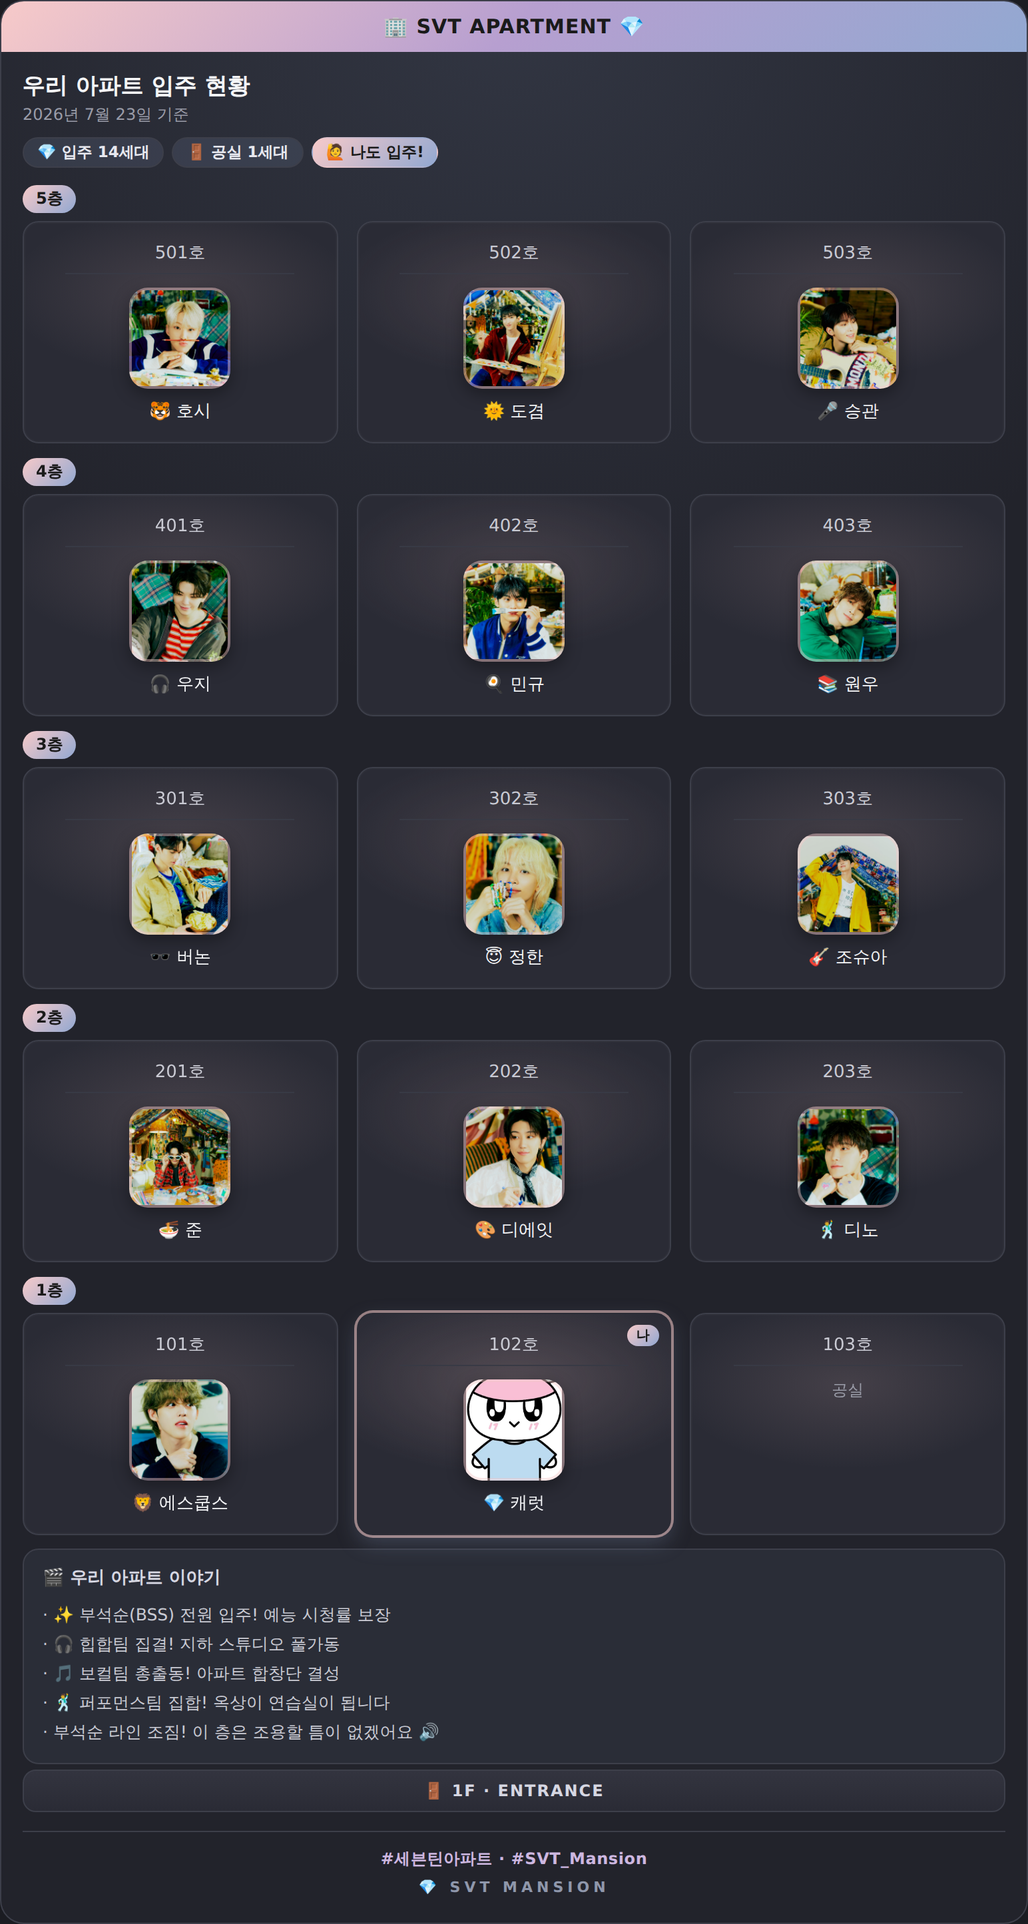
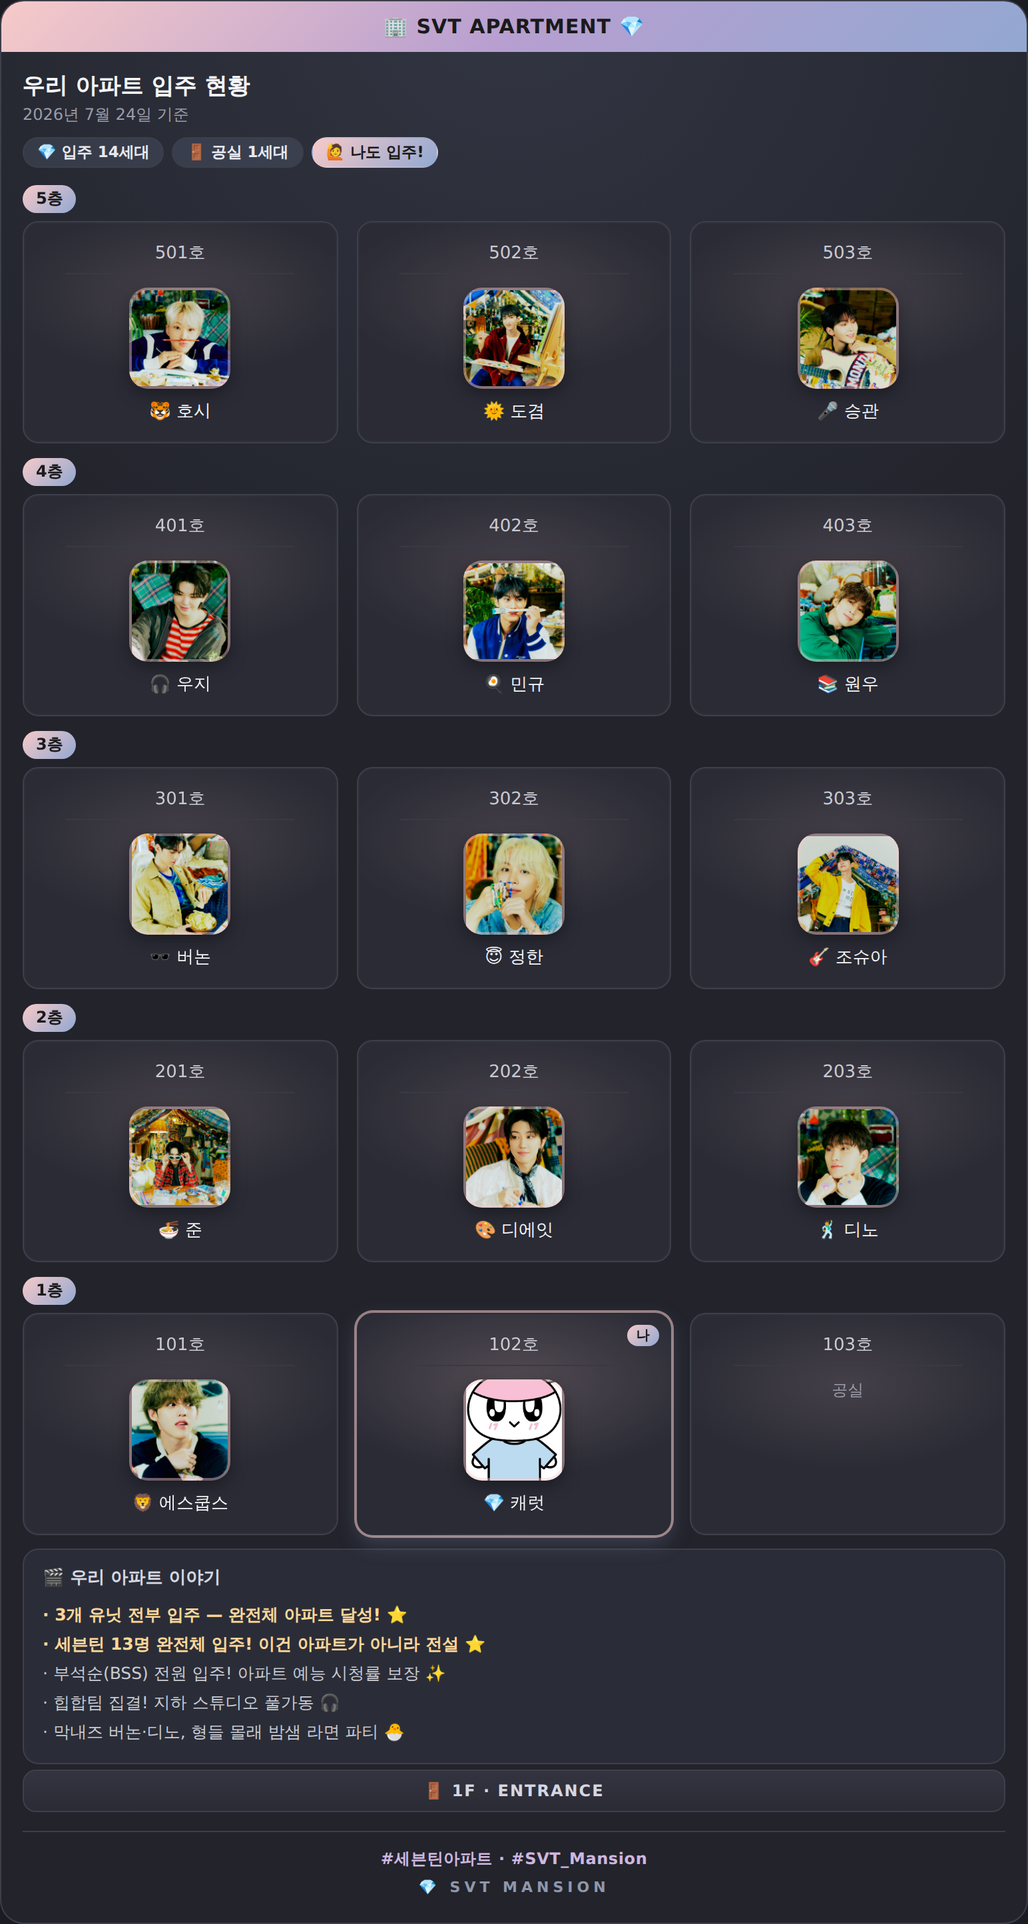
Upgrade event engine: categories, tiers, seeded determinism
6인 페르소나 회의(트위터 고인물·시나리오 작가·서비스 기획·디자이너·서버개발·
아이돌 엔터 기획) 결론을 반영해 정적 규칙표를 엔진으로 확장:
- 카테고리(레전드/유닛/고세/케미/위치/개인) + 티어 우선순위 + 카테고리별 상한(최대 5)
- 레전드 이벤트(13명 완전체·3개 유닛 완성) 골드 강조
- mulberry32 시드로 결정성 확보(같은 배치=같은 이야기), generateEvents 순수 함수
- 콘텐츠는 웹/네이버 검색으로 수집한 공개 사실 기반:
  유닛·부석순·믹스유닛 듀엣(동갑내기/어젯밤/Pretty Woman/Blue)·고잉세븐틴 포맷
- docs/EVENT_ENGINE.md(설계·회의·자료 출처), README·CHANGELOG·미리보기 갱신
- 엔진 로직(결정성/레전드/상한) + 회귀 검증

Claude-Session: https://claude.ai/code/session_01EWYYFStorAgKbjfY3kz4mX

Changed region(s): [[0.0311, 0.8097, 0.4663, 0.9031]]

diff --git a/index.html b/index.html
@@ -476,6 +476,12 @@
       line-height: 1.75;
     }
 
+    /* 레전드 이벤트 강조 (팬덤 '플렉스' 라인) */
+    .preview-event-item.legend {
+      color: #ffd79a;
+      font-weight: 700;
+    }
+
     /* 1층 출입구 */
     .preview-entrance {
       margin: 4px 16px 0;
@@ -990,37 +996,99 @@
       "캐럿":     { emoji: "💎", tag: "우리 이웃 캐럿" }
     };
 
-    // 이웃 케미 (두 멤버가 인접 시 발동, 순서 무관)
+    // ═══════════════════════════════════════════════════════════
+    // 이벤트 엔진 (6인 페르소나 회의 반영 / 자료: 유닛·부석순·믹스유닛 듀엣·고잉세븐틴 포맷)
+    //   데이터 = 규칙 테이블, 로직 = generateEvents(순수·결정적). 카테고리별 상한 + 티어 우선순위.
+    //   콘텐츠는 공개된 팬덤 사실(유닛/서브유닛/듀엣곡/자체예능) 기반의 밝고 긍정적 문구만.
+    // ═══════════════════════════════════════════════════════════
+
+    // 유닛/조합 전원 배치 시 (위치 무관). legendary=대형 달성.
+    const UNIT_EVENTS = [
+      { m: ["에스쿱스", "정한", "조슈아", "준", "호시", "원우", "우지", "디에잇", "민규", "도겸", "승관", "버논", "디노"],
+        text: "세븐틴 13명 완전체 입주! 이건 아파트가 아니라 전설 ⭐", legendary: true },
+      { m: ["호시", "도겸", "승관"], text: "부석순(BSS) 전원 입주! 아파트 예능 시청률 보장 ✨" },
+      { m: ["에스쿱스", "원우", "민규", "버논"], text: "힙합팀 집결! 지하 스튜디오 풀가동 🎧" },
+      { m: ["정한", "조슈아", "우지", "도겸", "승관"], text: "보컬팀 총출동! 아파트가 라이브홀이 됩니다 🎵" },
+      { m: ["준", "호시", "디에잇", "디노"], text: "퍼포먼스팀 집합! 옥상이 곧 안무 연습실 🕺" },
+      { m: ["호시", "우지"], text: "동갑내기 호시·우지 입주 — '동갑내기' 듀엣 각 👯" },
+      { m: ["버논", "디노"], text: "막내즈 버논·디노, 형들 몰래 밤샘 라면 파티 🐣" }
+    ];
+
+    // 이웃 케미 (두 멤버가 인접 시). 실제 유닛·믹스유닛 듀엣곡 레퍼런스 포함.
     const PAIR_EVENTS = [
-      { m: ["호시", "도겸"],   text: "부석순 라인 조짐! 이 층은 조용할 틈이 없겠어요 🔊" },
+      { m: ["호시", "우지"],   text: "호시·우지 옆집, '동갑내기' 합주가 시작됩니다 🎹" },
+      { m: ["정한", "원우"],   text: "정한·원우, '어젯밤' 감성으로 밤샘 토크 🌙" },
+      { m: ["에스쿱스", "민규"], text: "에스쿱스·민규, 'Pretty Woman' 코드로 옆집 인사 🕶" },
+      { m: ["도겸", "승관"],   text: "도겸·승관 'Blue' 듀엣, 벽 너머 자장가 🎶" },
+      { m: ["호시", "도겸"],   text: "호시·도겸 옆집 = 부석순 라인, 조용할 틈이 없어요 🔊" },
       { m: ["호시", "승관"],   text: "호시·승관 옆집, 복도가 곧 무대가 됩니다 🎤" },
-      { m: ["도겸", "승관"],   text: "도겸·승관 듀엣, 벽 너머로 라이브가 들려와요 🎶" },
       { m: ["민규", "우지"],   text: "밤샘하는 우지에게 민규가 야식 배달 🍳🎧" },
-      { m: ["원우", "버논"],   text: "원우·버논, 밤새 게임과 음악 소리가 새어나와요 🎮" },
+      { m: ["원우", "버논"],   text: "원우·버논, 밤새 게임과 힙합 비트가 새어나와요 🎮" },
       { m: ["정한", "조슈아"], text: "정한·조슈아, 옆집끼리 알콩달콩 장난 😇🎸" },
       { m: ["준", "디에잇"],   text: "준·디에잇, 예술과 요리의 살롱이 열립니다 🍜🎨" },
-      { m: ["에스쿱스", "디노"], text: "리더와 막내가 이웃! 든든한 사제 라인 🦁🕺" },
-      { m: ["민규", "도겸"],   text: "민규 집밥 + 도겸 미소 = 이 층 분위기 담당 🌞" }
+      { m: ["에스쿱스", "디노"], text: "리더와 막내가 이웃! 든든한 사제 라인 🦁🕺" }
     ];
 
-    // 이웃이 하나라도 있으면 발동 (개인 특성)
+    // 이웃이 하나라도 있으면 발동 (개인 캐릭터). 멤버당 여러 변형 → 시드로 하나 선택.
     const SOLO_EVENTS = {
-      "우지": "옆집에서 밤새 비트가… 우지 작업실 가동 중 🎧",
-      "민규": "이웃집에 민규표 집밥 냄새가 솔솔 🍳",
-      "승관": "승관 사는 라인은 매일이 예능 현장 🎤",
-      "호시": "새벽마다 안무 연습 소리, 호시가 옆집이군요 🐯",
-      "정한": "정한의 장난 초인종에 오늘도 옆집이 당했다 😇"
+      "우지":   ["옆집에서 밤새 비트가… 우지 작업실 가동 중 🎧", "천재작곡가 우지, 오늘도 자컴 마감 중 🎼"],
+      "민규":   ["이웃집에 민규표 집밥 냄새가 솔솔 🍳", "민규가 선반 달다가 옆집 벽까지 뚫을 뻔 🔨"],
+      "승관":   ["승관 사는 라인은 매일이 예능 현장 🎤", "반상회 사회는 역시 승관, 리액션 폭발 🎙"],
+      "호시":   ["새벽마다 안무 연습 소리, 호시가 옆집이군요 🐯", "텐션 담당 호시, 복도에서도 호랑해! 🐯"],
+      "정한":   ["정한의 장난 초인종에 오늘도 옆집이 당했다 😇", "게임에선 늘 살아남는 정한, 관리비도 잘 빠져나감 😏"],
+      "원우":   ["복도에서 마주쳐도 조용히 눈인사, 원우 스타일 📚", "게임하며 엘리베이터 기다리는 원우 발견 🎮"],
+      "조슈아": ["젠틀한 조슈아, 반상회 진행은 맡겨주세요 🎩"],
+      "도겸":   ["도겸 목소리에 옆집은 알람이 필요 없대요 🌞"],
+      "디에잇": ["디에잇 집 앞엔 늘 감성적인 화분이 놓여 있어요 🎨"],
+      "버논":   ["버논네 창문에서 흘러나오는 힙합 비트 🎧"],
+      "준":     ["준이 만든 마라탕 냄새가 복도 끝까지 🍲"],
+      "디노":   ["막내 디노, 반상회에서 동대표 자원 🔥"],
+      "에스쿱스": ["동대표는 역시 에스쿱스, 든든한 리더 🦁"]
     };
 
-    // 그룹 전원 배치 시 발동 (위치 무관)
-    const GROUP_EVENTS = [
-      { m: ["호시", "도겸", "승관"], text: "✨ 부석순(BSS) 전원 입주! 예능 시청률 보장" },
-      { m: ["에스쿱스", "원우", "민규", "버논"], text: "🎧 힙합팀 집결! 지하 스튜디오 풀가동" },
-      { m: ["정한", "조슈아", "우지", "도겸", "승관"], text: "🎵 보컬팀 총출동! 아파트 합창단 결성" },
-      { m: ["준", "호시", "디에잇", "디노"], text: "🕺 퍼포먼스팀 집합! 옥상이 연습실이 됩니다" }
+    // 위치(층) 기반
+    const POSITION_EVENTS = [
+      { when: (map) => [1, 2, 3].some(u => map["5-" + u]), text: "펜트하우스 라인 — 이 아파트 뷰 담당 🏙" },
+      { when: (map) => [1, 2, 3].some(u => map["1-" + u]), text: "1층은 택배·손님이 가장 먼저 들르는 명당 🛎" }
     ];
 
-    // 배치 결과 → 위치 기반 이벤트 목록 (우선순위: 그룹 > 이웃 케미 > 개인, 최대 5개)
+    // 고잉세븐틴 자체예능 포맷 이벤트 (일정 인원 이상 배치 시 시드로 하나)
+    const GOSE_EVENTS = [
+      "밤이 되자 아파트 방탈출 시작 — 살아서 1층까지! 🔑",
+      "관리비 몰아주기 '돈치기' 대회가 로비에서… 💰",
+      "어몽어스 현실판: 이 중 임포스터는 누구? 🕵",
+      "이사 기념 TTT — 오늘 밤 옥상에서 다 같이 썰 푼다 🌟",
+      "복도 노래방 오픈! 마이크는 도겸이 독점 🎤"
+    ];
+
+    // 배치 → 시드(결정적). 같은 배치 = 같은 이야기, 다른 배치 = 다른 이야기.
+    function seedFromResults(results) {
+      let h = 2166136261;
+      results.forEach(r => {
+        const s = r.floor + "-" + r.unit + ":" + (r.resident || "");
+        for (let i = 0; i < s.length; i++) { h ^= s.charCodeAt(i); h = Math.imul(h, 16777619); }
+      });
+      return h >>> 0;
+    }
+    function mulberry32(a) {
+      return function () {
+        a |= 0; a = (a + 0x6D2B79F5) | 0;
+        let t = Math.imul(a ^ (a >>> 15), 1 | a);
+        t = (t + Math.imul(t ^ (t >>> 7), 61 | t)) ^ t;
+        return ((t ^ (t >>> 14)) >>> 0) / 4294967296;
+      };
+    }
+    function seededShuffle(arr, rng) {
+      const a = arr.slice();
+      for (let i = a.length - 1; i > 0; i--) {
+        const j = Math.floor(rng() * (i + 1));
+        [a[i], a[j]] = [a[j], a[i]];
+      }
+      return a;
+    }
+
+    // 배치 결과 → 이벤트 목록. 반환: [{ text, legendary }] 최대 5개.
+    //   티어 우선순위: 레전드 > 유닛 > 고세 > 케미 > 위치 > 개인. 카테고리별 상한으로 다양성 확보.
     function generateEvents(results) {
       const placed = new Set(
         results.filter(r => r.resident && r.resident !== "공실").map(r => r.resident)
@@ -1030,7 +1098,7 @@
         if (r.resident && r.resident !== "공실") map[r.floor + "-" + r.unit] = r.resident;
       });
 
-      // 인접 쌍 수집: 같은 층 좌우 + 같은 라인 위아래
+      // 인접 쌍 + 이웃 보유 여부
       const adjPairs = new Set();
       const hasNeighbor = new Set();
       const connect = (a, b) => {
@@ -1047,15 +1115,54 @@
         }
       }
 
-      const events = [];
-      const seen = new Set();
-      const push = (t) => { if (t && !seen.has(t)) { seen.add(t); events.push(t); } };
+      const rng = mulberry32(seedFromResults(results));
+      const pool = []; // { text, tier, cat, legendary }
+      const seenText = new Set();
+      const add = (text, tier, cat, legendary) => {
+        if (!text || seenText.has(text)) return;
+        seenText.add(text);
+        pool.push({ text, tier, cat, legendary: !!legendary });
+      };
 
-      GROUP_EVENTS.forEach(g => { if (g.m.every(x => placed.has(x))) push(g.text); });
-      PAIR_EVENTS.forEach(p => { if (adjPairs.has([...p.m].sort().join("|"))) push(p.text); });
-      Object.keys(SOLO_EVENTS).forEach(m => { if (hasNeighbor.has(m)) push(SOLO_EVENTS[m]); });
+      // 유닛/조합 (전원 배치)
+      UNIT_EVENTS.forEach(u => {
+        if (u.m.every(x => placed.has(x))) add(u.text, u.legendary ? 0 : 1, "unit", u.legendary);
+      });
+      // 3개 유닛 모두 완성 → 레전드
+      const HIPHOP = ["에스쿱스", "원우", "민규", "버논"];
+      const VOCAL = ["정한", "조슈아", "우지", "도겸", "승관"];
+      const PERF = ["준", "호시", "디에잇", "디노"];
+      if (HIPHOP.every(x => placed.has(x)) && VOCAL.every(x => placed.has(x)) && PERF.every(x => placed.has(x))) {
+        add("3개 유닛 전부 입주 — 완전체 아파트 달성! ⭐", 0, "unit", true);
+      }
+      // 고세 예능 (6명 이상)
+      if (placed.size >= 6) {
+        add(seededShuffle(GOSE_EVENTS, rng)[0], 2, "gose", false);
+      }
+      // 이웃 케미
+      PAIR_EVENTS.forEach(p => {
+        if (adjPairs.has([...p.m].sort().join("|"))) add(p.text, 3, "pair", false);
+      });
+      // 위치
+      POSITION_EVENTS.forEach(p => { if (p.when(map)) add(p.text, 4, "position", false); });
+      // 개인 (이웃 있으면) — 변형 중 시드로 하나
+      Object.keys(SOLO_EVENTS).forEach(m => {
+        if (hasNeighbor.has(m)) add(seededShuffle(SOLO_EVENTS[m], rng)[0], 5, "solo", false);
+      });
 
-      return events.slice(0, 5);
+      // 카테고리별 상한 (다양성) + 티어 우선순위 + 시드 셔플로 동점 처리
+      const caps = { unit: 3, gose: 1, pair: 2, position: 1, solo: 2 };
+      const used = {};
+      const chosen = seededShuffle(pool, rng)
+        .sort((a, b) => a.tier - b.tier)
+        .filter(e => {
+          if (e.legendary) return true; // 레전드는 상한 무시
+          used[e.cat] = (used[e.cat] || 0) + 1;
+          return used[e.cat] <= (caps[e.cat] || 1);
+        })
+        .slice(0, 5);
+
+      return chosen.map(e => ({ text: e.text, legendary: e.legendary }));
     }
 
     function renderPreview(results) {
@@ -1181,7 +1288,7 @@
         if (evs.length) {
           evEl.style.display = "block";
           evEl.innerHTML = '<div class="preview-events-title">🎬 우리 아파트 이야기</div>'
-            + evs.map(t => `<div class="preview-event-item">· ${t}</div>`).join("");
+            + evs.map(e => `<div class="preview-event-item${e.legendary ? " legend" : ""}">· ${e.text}</div>`).join("");
         } else {
           evEl.style.display = "none";
           evEl.innerHTML = "";

diff --git a/docs/EVENT_ENGINE.md b/docs/EVENT_ENGINE.md
@@ -1,0 +1,37 @@
+# 이벤트 엔진 설계 (Event Engine)
+
+결과 카드의 "🎬 우리 아파트 이야기"를 생성하는 엔진. 배치(위치·이웃·조합)를 읽어 **밝고 긍정적인 팬덤 서사 이벤트**를 만든다. 구현: `index.html`의 `generateEvents()` (순수·결정적 함수) + 규칙 데이터 테이블.
+
+## 6인 페르소나 회의 결론 (설계 반영)
+| 페르소나 | 요구 | 엔진 반영 |
+|---|---|---|
+| 트위터 고인물 | 짤/인용각, 리롤마다 새 이야기, '플렉스'용 레전드 | 배치별 결정적 시드(같은 배치=같은 이야기, 다른 배치=다른 이야기) + **레전드 이벤트**(골드 강조) |
+| 시나리오 작가 | 톤 일관성, 카테고리 다양성, 반복 방지 | 카테고리(유닛/케미/위치/개인/고세) + **카테고리별 상한**으로 한 종류 도배 방지 |
+| 서비스 기획자 | 명확한 규칙·우선순위·상한, 신뢰성 | **티어 우선순위**(레전드>유닛>고세>케미>위치>개인), 최대 5개 |
+| 디자이너 | 카드에 들어갈 분량, 레전드 시각 구분 | 5줄 상한, 레전드는 `.legend`(골드) 스타일 |
+| 서버 개발자 | 순수/결정적/테스트가능, 데이터·로직 분리, 조합폭발 방지 | `generateEvents(results)` 순수함수, 규칙은 데이터 테이블, mulberry32 시드 PRNG(Math.random 미사용) |
+| 아이돌 엔터사 기획자 | 브랜드 세이프, 공개 사실 기반, 이미지 보호 | 공개 유닛/서브유닛/듀엣곡/자체예능 사실만 사용, 부정·사생활 언급 배제, 애정 어린 톤 |
+
+## 이벤트 카테고리 (티어 순)
+1. **레전드**(tier 0): 13명 완전체, 3개 유닛 전부 완성 → 골드 강조, 상한 무시.
+2. **유닛/조합**(1): 힙합팀·보컬팀·퍼포먼스팀·부석순(BSS)·동갑내기(호시·우지)·막내즈(버논·디노) 전원 배치 시.
+3. **고세 예능**(2): 6명 이상 배치 시 고잉세븐틴 포맷 이벤트 1개(방탈출/돈치기/어몽어스/TTT/노래방).
+4. **이웃 케미**(3): 같은 층 좌우 + 위아래 라인 인접 시. 실제 믹스유닛 듀엣곡 레퍼런스 포함.
+5. **위치**(4): 5층(펜트하우스)·1층(로비) 배치.
+6. **개인**(5): 이웃이 있으면 멤버 캐릭터 이벤트(변형 중 시드로 하나).
+
+## 선택 로직
+- 발동한 이벤트를 모아 시드 셔플 → 티어 오름차순 안정 정렬 → 카테고리 상한(유닛3/케미2/위치1/개인2/고세1) 적용 → 최대 5개.
+- 시드는 배치(칸-멤버) 해시 기반 → **같은 배치는 항상 같은 이야기**(신뢰성), 배치가 바뀌면 이야기도 바뀜(리롤 재미).
+
+## 콘텐츠 자료 출처 (수집)
+공개 자료로 유닛 구성·서브유닛·믹스유닛 듀엣·자체예능 포맷을 확인해 문구에 반영:
+- **유닛 구성 / 부석순 / 믹스유닛**: 나무위키·위키백과·Weverse Magazine, 언론(이투데이 등) — 힙합팀(에스쿱스·원우·민규·버논), 보컬팀(정한·조슈아·우지·도겸·승관), 퍼포먼스팀(준·호시·디에잇·디노), 부석순(승관·도겸·호시).
+- **믹스유닛 듀엣곡**: 호시×우지 '동갑내기', 정한×원우 '어젯밤', 에스쿱스×민규 'Pretty Woman', 도겸×승관 'Blue'.
+- **고잉세븐틴(자체예능) 포맷**: 팬 블로그 다수 — TTT(MT/썰), 돈치기/돈't Lie, 방탈출, 어몽어스 현실판, 노래방 등.
+- **멤버 롤/별명**: Weverse Magazine·팬 정리 — 리더(에스쿱스), 프로듀서·천재작곡가(우지), 텐션·호랑이(호시), 예능·리액션(승관), deadpan·게임(원우), 살림·사고(민규) 등.
+
+> 유튜브 Data API는 수집 시점에 일일 쿼터 초과로 미사용. 웹/네이버 검색으로 대체 수집.
+
+## 확장 방법
+`UNIT_EVENTS` / `PAIR_EVENTS` / `SOLO_EVENTS` / `POSITION_EVENTS` / `GOSE_EVENTS` 데이터 배열에 항목만 추가하면 된다. 로직(`generateEvents`)은 수정 불필요.

diff --git a/CHANGELOG.md b/CHANGELOG.md
@@ -2,6 +2,14 @@
 
 세 페르소나 진단(**A** 재미·공유 / **B** 기술·안정성 / **C** 비주얼)을 기반으로 게임을 개선한 기록입니다. 최신순.
 
+## 7차 — 이벤트 엔진 고도화 (6인 페르소나 회의 + 자료 수집)
+정적 규칙 테이블을 **카테고리·티어·시드 기반 엔진**으로 확장 (`docs/EVENT_ENGINE.md` 참고).
+- **6인 페르소나 회의**(트위터 고인물·시나리오 작가·서비스 기획자·디자이너·서버 개발자·아이돌 엔터사 기획자) 결론 반영.
+- **카테고리**: 레전드 / 유닛·조합 / 고세 예능 / 이웃 케미 / 위치 / 개인. **티어 우선순위 + 카테고리별 상한**으로 다양성 확보(최대 5개).
+- **레전드 이벤트**(13명 완전체·3개 유닛 완성) 골드 강조.
+- **결정적 시드**(mulberry32): 같은 배치=같은 이야기, 다른 배치=다른 이야기. `generateEvents`는 순수 함수.
+- **콘텐츠 자료 수집**: 웹/네이버 검색으로 유닛·부석순·믹스유닛 듀엣곡(동갑내기·어젯밤·Pretty Woman·Blue)·고잉세븐틴 포맷(TTT·돈치기·방탈출·어몽어스)·멤버 롤을 확인해 반영. (유튜브 API는 쿼터 초과로 미사용)
+
 ## 6차 — 닉네임 개인화 & 4:5 공유 변형
 5차에서 보류했던 두 항목 적용:
 - **닉네임 개인화** — 시작 단계에 닉네임 입력(localStorage 저장). 결과 카드 타이틀이 **"OO이 세븐틴 아파트에 입주했다"**로 변경. 한글 주격 조사(이/가) 자동 판별.

diff --git a/README.md b/README.md
@@ -29,7 +29,7 @@
 | **저장/복원** | 배치 상태 **localStorage 자동 저장** — 새로고침해도 유지 |
 | **공유** | 결과 카드 **PNG 저장** · 📲 **원탭 공유(Web Share API)** — 미지원 환경에선 저장 + 해시태그 문구 클립보드 복사로 폴백 |
 | **결과 카드** | 아파트 메타포(옥상 사인·층 태그·창문형 유닛·1F 출입구) · 날짜·해시태그 브랜딩 자동 포함 |
-| **이웃 이벤트** | 멤버별 성격 이모지 배지 · **위치 기반 케미 이벤트**(옆집/위아래 라인 인접·그룹 소집) → "🎬 우리 아파트 이야기"로 결과 카드에 자동 생성 |
+| **이벤트 엔진** | 멤버 성격 이모지 배지 · **위치/이웃/조합 기반 서사 이벤트**(유닛·부석순·믹스유닛 듀엣·고잉세븐틴 포맷·레전드) → "🎬 우리 아파트 이야기" 자동 생성. 카테고리·티어·시드 기반 결정적 엔진 ([설계·자료 출처](docs/EVENT_ENGINE.md)) |
 | **디자인** | SEVENTEEN 상징색(Rose Quartz·Serenity) 그라디언트 · 통일된 라운드 아바타 · 배치 팝 애니메이션 |
 | **안정성** | 전송 상태 토스트 · html2canvas 로컬 벤더 + CDN 폴백 · 깨진 이미지 폴백 · 접근성(aria/포커스) |
 
